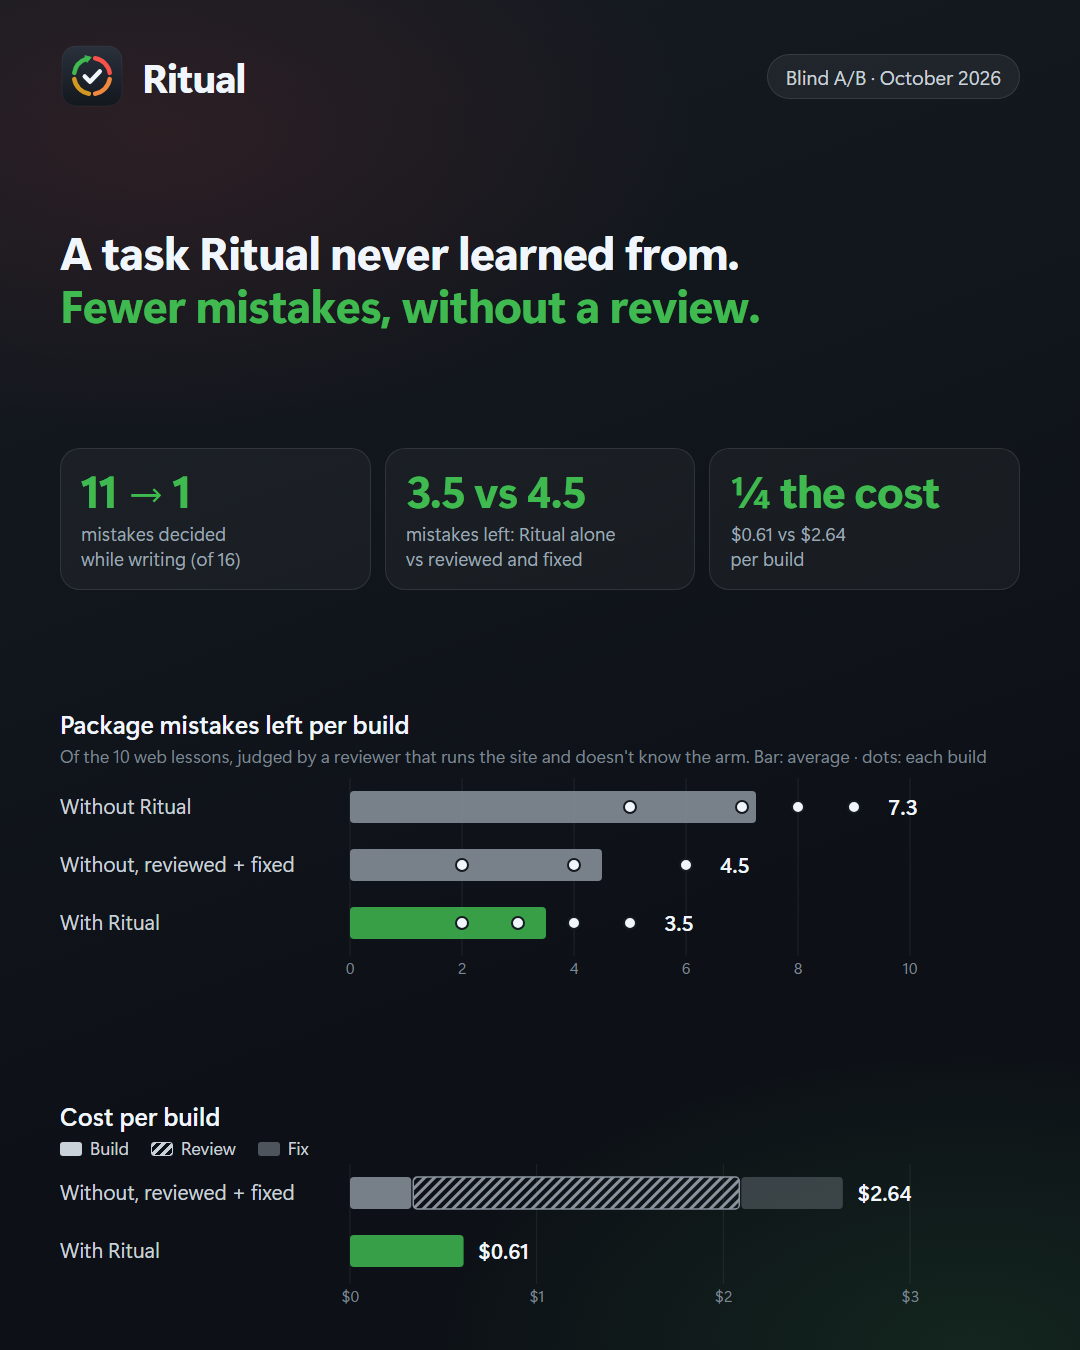
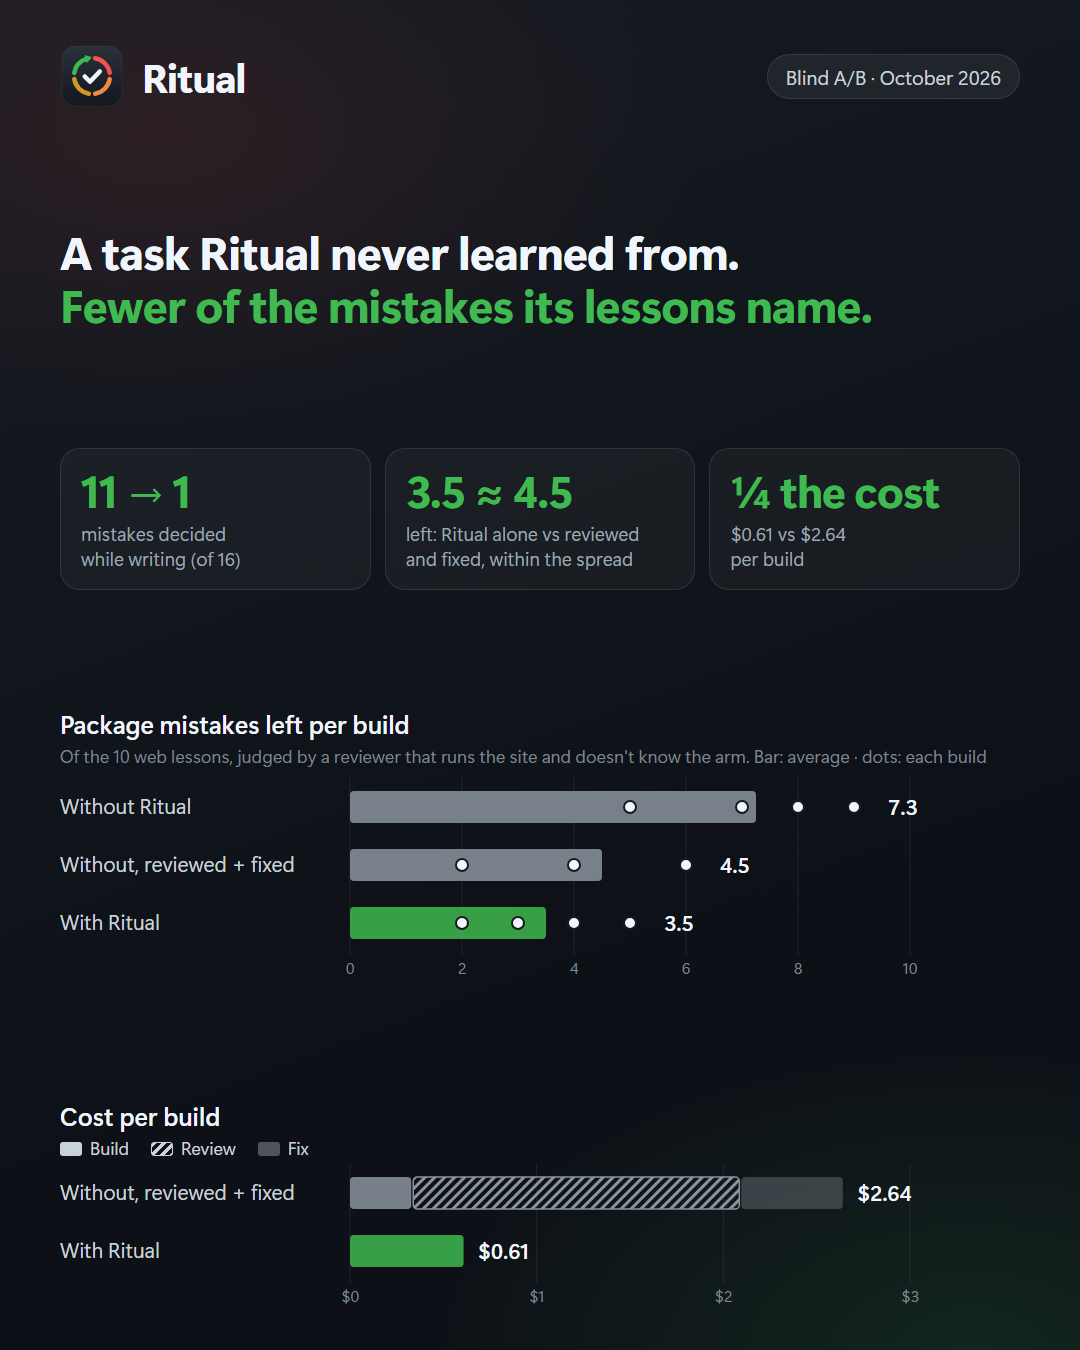
README and A/B chart: say what the measurement did not show
The measured paragraph now names both sides of the blind A/B, as RESULTS.md
does: the mistakes decided while writing went from 11 to 1 with lessons at the
start (5 with the close on too), while mistakes only seen by running, new
mistakes and the total did not drop by the pre-set rule; 3.5 against 4.5 is
within the spread; one task, four builds per arm, one model. The chart's
headline becomes "Fewer of the mistakes its lessons name" and shows 3.5 ≈ 4.5.
An outside review had read the old wording as overselling its own null result.

Changed region(s): [[0.1833, 0.2178, 0.7944, 0.2489], [0.3667, 0.3422, 0.5806, 0.4356]]

diff --git a/assets/social/ab-chart.html b/assets/social/ab-chart.html
@@ -23,10 +23,10 @@
 </style></head>
 <body><div class="page">
   <div class="head"><img src="../logo.svg" alt=""><b>Ritual</b><div class="pill">Blind A/B · October 2026</div></div>
-  <h1>A task Ritual never learned from.<br><span class="green">Fewer mistakes, without a review.</span></h1>
+  <h1>A task Ritual never learned from.<br><span class="green">Fewer of the mistakes its lessons name.</span></h1>
   <div class="stats">
     <div class="stat"><b class="green">11 → 1</b><span>mistakes decided<br>while writing (of 16)</span></div>
-    <div class="stat"><b class="green">3.5 vs 4.5</b><span>mistakes left: Ritual alone<br>vs reviewed and fixed</span></div>
+    <div class="stat"><b class="green">3.5 ≈ 4.5</b><span>left: Ritual alone vs reviewed<br>and fixed, within the spread</span></div>
     <div class="stat"><b class="green">¼ the cost</b><span>$0.61 vs $2.64<br>per build</span></div>
   </div>
   <div class="chart"><h2>Package mistakes left per build</h2><p>Of the 10 web lessons, judged by a reviewer that runs the site and doesn't know the arm. Bar: average · dots: each build</p><svg id="mistakes"></svg></div>

diff --git a/README.ja.md b/README.ja.md
@@ -20,7 +20,7 @@
 
 Ritual には、実際のミスからそれぞれ生まれた **55 件のフィールドレッスン**が含まれています。また、**プロジェクトの種類ごとのパッケージ**があり、そこのレッスンは、モデルが何かを作って壊すのを観察した結果から来ています。そして、**一つのコマンド** `/ritual` があります。これは、セッションのミスをあなた自身のレッスンに変え、そのレッスンを、自分で強制されるルールに変えます。
 
-**計測結果：** Ritual が一度も学んだことのない web 課題で、Ritual ありで四回、なしで四回ビルドし、どのビルドも盲検でレビューしました。書いている最中に決まるミス（エラー処理の経路、キーボードのフォーカス、壊れたデータファイル）は、Ritual なしでは 11 回、ありでは 1 回出ました。レビューを一切せずに Ritual ありでビルドしたものは、レビューと修正をした Ritual なしのビルドと比べて、パッケージのミスが同じかそれ以下でした（平均 3.5 対 4.5）。コストは約四分の一です：$0.61 対 $2.64（後者はビルド、レビュー、修正を合わせた額）。データと方法は [シミュレーション](simulations/clinic/RESULTS.md) にあります。
+**計測結果：** Ritual が一度も学んだことのない web 課題を、Ritual なしで四回、ありで四回ビルドし、どのビルドも盲検でレビューしました。書いている最中に決まるミス（エラー処理の経路、キーボードのフォーカス、壊れたデータファイル。この分類は実行前に決めたもの）は、Ritual なしでは 11 回、Ritual ありで最初からレッスンを読み込ませ、出荷時のまま使った場合は 1 回出ました（クローズも有効にすると 5 回）。実行して初めて見えるミスは減らず、新しいミスも、ミスの合計も減りませんでした。これは実行前に決めた基準によるものです。Ritual は、レッスンのあるミスを、コードを書いている最中に止めます。レビューを一切せずに Ritual ありでビルドしたものは、レビューと修正をした Ritual なしのビルドと比べて、パッケージのミスが同じかそれ以下でした（平均 3.5 対 4.5。ばらつきの範囲内）。コストは $0.61 対 $2.64 です。一つの課題、条件ごとに四ビルド、モデルは一つです。データと方法は [シミュレーション](simulations/clinic/RESULTS.md) にあります。
 
 <p align="center"><a href="simulations/clinic/RESULTS.md"><img src="assets/ab-chart.png" alt="Ritual ありでは、書いている最中に決まるミスが 11 から 1 に減り、レビューを一切しないビルドが、レビューと修正をした Ritual なしのビルドと同等になり、コストは四分の一" width="540"></a></p>
 

diff --git a/README.ko.md b/README.ko.md
@@ -20,7 +20,7 @@
 
 **55개의 현장 교훈**이 들어 있으며, 각 교훈은 실제 실수에서 태어났습니다. **프로젝트 종류별 패키지**도 있는데, 그 교훈들은 모델이 무언가를 만들고 망가뜨리는 것을 지켜보며 얻은 것입니다. 그리고 **명령 하나**, `/ritual`이 있어서 세션의 실수를 여러분 자신의 교훈으로, 그 교훈을 스스로 적용되는 규칙으로 바꿔 줍니다.
 
-**측정 결과:** Ritual이 한 번도 배운 적 없는 웹 과제에서, Ritual과 함께 네 번, Ritual 없이 네 번 빌드했고, 모든 빌드는 블라인드 방식으로 검토했습니다. 작성하는 동안 결정되는 실수(오류 처리 경로, 키보드 포커스, 손상된 데이터 파일)는 Ritual 없이 11번, Ritual과 함께는 1번 나타났습니다. 그리고 Ritual과 함께 검토 없이 빌드한 결과는, Ritual 없이 빌드하고 검토 및 수정한 결과와 비교해 패키지 실수가 더 많지 않았으며(평균 3.5 대 4.5), 비용은 약 4분의 1이었습니다: $0.61 대 $2.64(후자는 빌드, 검토, 수정을 합친 금액). 데이터와 방법은 [시뮬레이션](simulations/clinic/RESULTS.md)에 있습니다.
+**측정 결과:** Ritual이 한 번도 배운 적 없는 웹 과제를, Ritual 없이 네 번, Ritual과 함께 네 번 빌드했고, 모든 빌드는 블라인드 방식으로 검토했습니다. 작성하는 동안 결정되는 실수(오류 처리 경로, 키보드 포커스, 손상된 데이터 파일)는, 실행 전에 정해 둔 묶음으로서, Ritual 없이 11번, 배포된 그대로의 교훈을 처음부터 적용했을 때는 1번 나타났습니다(마무리 단계까지 켰을 때는 5번). 실행해야만 드러나는 실수는 줄지 않았고, 새로운 실수와 전체 합계도 줄지 않았습니다(실행 전에 정해 둔 규칙 기준). Ritual은 교훈이 있는 실수를 코드를 작성하는 동안 막습니다. Ritual과 함께 검토 없이 빌드한 결과는, Ritual 없이 빌드하고 검토 및 수정한 결과보다 패키지 실수가 더 많지 않았습니다(평균 3.5 대 4.5, 편차 범위 안에서). 비용은 $0.61 대 $2.64였습니다. 과제 하나, 조건당 빌드 네 번, 모델 하나입니다. 데이터와 방법은 [시뮬레이션](simulations/clinic/RESULTS.md)에 있습니다.
 
 <p align="center"><a href="simulations/clinic/RESULTS.md"><img src="assets/ab-chart.png" alt="Ritual을 쓰면 작성 중에 결정되는 실수가 11개에서 1개로 줄었고, 검토 없이 만든 빌드는 검토와 수정을 거친 Ritual 없는 빌드와 같은 수준이었으며 비용은 4분의 1이었습니다" width="540"></a></p>
 

diff --git a/README.fr.md b/README.fr.md
@@ -20,7 +20,7 @@ D'autres outils notent ce qui a été appris ; Ritual va plus loin et le vérifi
 
 Il livre **55 leçons de terrain**, chacune née d'une vraie erreur ; des **paquets par type de projet**, dont les leçons viennent de l'observation d'un modèle en train de construire quelque chose puis de le casser ; et **une seule commande**, `/ritual`, qui transforme les erreurs de votre session en vos propres leçons, et vos leçons en règles qui s'appliquent d'elles-mêmes.
 
-**Mesuré :** sur une tâche web dont Ritual n'a jamais rien appris, quatre constructions ont été faites avec Ritual et quatre sans, chacune relue à l'aveugle. Les erreurs qui se décident pendant l'écriture (le chemin d'erreur, le focus du clavier, un fichier de données endommagé) sont apparues 11 fois sans Ritual et une fois avec. Et une construction avec Ritual et sans aucune relecture s'est terminée avec pas plus d'erreurs du paquet qu'une construction sans Ritual après relecture et correction (3,5 contre 4,5 en moyenne), pour environ un quart du coût : $0.61 contre $2.64 pour construire, relire et corriger. Les données et la méthode se trouvent dans [simulations](simulations/clinic/RESULTS.md).
+**Mesuré :** sur une tâche web que Ritual n'a jamais apprise, quatre constructions faites sans Ritual et quatre avec, chacune relue à l'aveugle. Les erreurs qui se décident pendant l'écriture (le chemin d'erreur, le focus du clavier, un fichier de données endommagé), un groupe fixé avant les essais, sont apparues 11 fois sans Ritual et une fois avec ses leçons au départ, telles qu'elles sont livrées (5 fois avec la clôture activée aussi). Les erreurs qui ne se voient qu'en exécutant n'ont pas baissé, ni les nouvelles erreurs, ni le total, selon la règle fixée avant les essais : Ritual évite les erreurs pour lesquelles il a une leçon, pendant l'écriture du code. Une construction avec Ritual et sans relecture s'est terminée avec pas plus d'erreurs du paquet qu'une construction sans Ritual après relecture et correction (3,5 contre 4,5 en moyenne, dans la dispersion), pour $0.61 contre $2.64. Une tâche, quatre constructions par bras, un seul modèle : les données et la méthode sont dans [simulations](simulations/clinic/RESULTS.md).
 
 <p align="center"><a href="simulations/clinic/RESULTS.md"><img src="assets/ab-chart.png" alt="Avec Ritual, les erreurs décidées à l'écriture sont passées de 11 à 1, et une construction sans aucune relecture a égalé une construction sans Ritual relue et corrigée, pour un quart du coût" width="540"></a></p>
 

diff --git a/README.es.md b/README.es.md
@@ -20,7 +20,7 @@ Otras herramientas anotan lo aprendido; Ritual llega hasta comprobarlo, porque u
 
 Trae **55 lecciones de campo**, cada una nacida de un error real; **paquetes por tipo de proyecto**, cuyas lecciones salen de ver a un modelo construir algo y romperse; y **un comando**, `/ritual`, que convierte los errores de tu sesión en lecciones tuyas, y tus lecciones en reglas que se cumplen solas.
 
-**Medido:** en una tarea web de la que Ritual nunca aprendió, se hicieron cuatro construcciones con Ritual y cuatro sin Ritual, y cada una fue revisada a ciegas. Los errores que se deciden mientras se escribe (la ruta de error, el foco del teclado, un archivo de datos dañado) aparecieron 11 veces sin Ritual y una vez con él. Y una construcción con Ritual y sin ninguna revisión no terminó con más errores del paquete que una construcción sin Ritual después de revisión y arreglo (3.5 contra 4.5 en promedio), a una cuarta parte del costo: $0.61 contra $2.64 de construir, revisar y arreglar. Los datos y el método están en [simulaciones](simulations/clinic/RESULTS.md).
+**Medido:** una tarea web que Ritual nunca aprendió, construida cuatro veces sin Ritual y cuatro con Ritual, y cada construcción revisada a ciegas. Los errores que se deciden mientras se escribe (la ruta de error, el foco del teclado, un archivo de datos dañado), un grupo definido antes de las ejecuciones, aparecieron 11 veces sin Ritual y una vez con sus lecciones desde el principio, tal como se publica (5 veces con el cierre también activado). Los errores que solo se ven al ejecutar no bajaron, ni tampoco los errores nuevos ni el total, según la regla fijada antes de las ejecuciones: Ritual detiene los errores de los que tiene una lección, mientras se escribe el código. Una construcción con Ritual y sin ninguna revisión no terminó con más errores del paquete que una construcción sin Ritual después de revisión y arreglo (3.5 contra 4.5 en promedio, dentro de la dispersión), por $0.61 contra $2.64. Una tarea, cuatro construcciones por grupo, un modelo: los datos y el método están en [simulaciones](simulations/clinic/RESULTS.md).
 
 <p align="center"><a href="simulations/clinic/RESULTS.md"><img src="assets/ab-chart.png" alt="Con Ritual, los errores que se deciden al escribir bajaron de 11 a 1, y una construcción sin ninguna revisión igualó a una construcción sin Ritual que sí fue revisada y arreglada, a una cuarta parte del costo" width="540"></a></p>
 

diff --git a/README.pt.md b/README.pt.md
@@ -20,7 +20,7 @@ Outras ferramentas anotam o que foi aprendido; esta vai até o fim e confere, po
 
 Ele traz **55 lições de campo**, cada uma nascida de um erro real; **pacotes por tipo de projeto**, cujas lições vêm de observar um modelo construir algo e quebrá-lo; e **um comando**, `/ritual`, que transforma os erros da sua sessão em lições suas, e suas lições em regras que se aplicam sozinhas.
 
-**Medido:** em uma tarefa web com a qual o Ritual nunca aprendeu, foram feitas quatro construções com o Ritual e quatro sem ele, e cada uma foi revisada às cegas. Os erros decididos durante a escrita (o caminho de erro, o foco do teclado, um arquivo de dados danificado) apareceram 11 vezes sem o Ritual e uma vez com ele. E uma construção com o Ritual e sem nenhuma revisão terminou com não mais erros do pacote do que uma construção sem o Ritual depois de revisão e correção (3,5 contra 4,5 em média), a cerca de um quarto do custo: $0.61 contra $2.64 para construir, revisar e corrigir. Os dados e o método estão em [simulações](simulations/clinic/RESULTS.md).
+**Medido:** uma tarefa web que o Ritual nunca aprendeu, construída quatro vezes sem o Ritual e quatro com ele, com cada construção revisada às cegas. Os erros decididos durante a escrita (o caminho de erro, o foco do teclado, um arquivo de dados danificado), um grupo definido antes das execuções, apareceram 11 vezes sem o Ritual e uma vez com suas lições desde o início, como ele é distribuído (5 vezes com o fechamento também ativo). Os erros que só aparecem ao executar não diminuíram, nem os erros novos, nem o total, pela regra definida antes das execuções: o Ritual evita os erros para os quais tem uma lição, enquanto o código é escrito. Uma construção com o Ritual e sem nenhuma revisão terminou com não mais erros do pacote do que uma construção sem o Ritual depois de revisão e correção (3,5 contra 4,5 em média, dentro da variação), por $0.61 contra $2.64. Uma tarefa, quatro construções por grupo, um modelo: os dados e o método estão em [simulações](simulations/clinic/RESULTS.md).
 
 <p align="center"><a href="simulations/clinic/RESULTS.md"><img src="assets/ab-chart.png" alt="Com o Ritual, os erros decididos durante a escrita caíram de 11 para 1, e uma construção sem nenhuma revisão igualou uma construção sem o Ritual que foi revisada e corrigida, a um quarto do custo" width="540"></a></p>
 

diff --git a/README.zh-CN.md b/README.zh-CN.md
@@ -20,7 +20,7 @@ Ritual 是一个 Claude Code 插件，它把每个错误变成一条教训，把
 
 它附带 **55 条实战教训**，每条都源于一次真实的错误；还有 **按项目类型划分的课程包**，其中的教训来自观察模型构建某个东西并把它弄坏的过程；以及 **一条命令** `/ritual`，它把你会话中的错误变成你自己的教训，再把你的教训变成会自我执行的规则。
 
-**实测：**在一个 Ritual 从未从中学习过的网页任务上，有 Ritual 构建了四次，没有 Ritual 也构建了四次，每次构建都经过盲审。在编写过程中就决定的错误（错误处理路径、键盘焦点、损坏的数据文件），没有 Ritual 时出现了 11 次，有 Ritual 时只出现 1 次。而一次有 Ritual 且完全没有审查的构建，其课程包错误数并不比一次没有 Ritual、但经过审查和修复的构建更多（平均 3.5 对 4.5），成本约为四分之一：$0.61 对 $2.64（后者是构建、审查和修复的总成本）。数据和方法见 [模拟](simulations/clinic/RESULTS.md)。
+**实测：**在一个 Ritual 从未学习过的网页任务上，有 Ritual 构建了四次，没有 Ritual 也构建了四次，每次构建都经过盲审。在编写过程中就决定的错误（错误处理路径、键盘焦点、损坏的数据文件；这一类别在运行前就已定下），没有 Ritual 时出现了 11 次，而按发布时的原样、从一开始就带有课程时只出现了 1 次（同时开启收尾时为 5 次）。运行后才能看到的错误没有减少，新错误和错误总数也没有减少，这是按运行前设定的规则判定的：Ritual 会在编写代码时阻止它有教训对应的错误。一次有 Ritual 但没有任何审查的构建，其课程包错误数并不比一次没有 Ritual、但经过审查和修复的构建更多（平均 3.5 对 4.5，处于波动范围之内），成本为 $0.61 对 $2.64。一项任务，每组四次构建，一个模型：数据和方法见 [模拟](simulations/clinic/RESULTS.md)。
 
 <p align="center"><a href="simulations/clinic/RESULTS.md"><img src="assets/ab-chart.png" alt="使用 Ritual 后，在编写过程中决定的错误从 11 个降到 1 个，而一次没有任何审查的构建，其错误数与经过审查和修复的无 Ritual 构建相当，成本仅为四分之一" width="540"></a></p>
 

diff --git a/README.md b/README.md
@@ -18,7 +18,7 @@ Other tools write down what was learned; Ritual goes as far as checking it, beca
 
 It ships **55 field lessons**, each born from a real mistake; **packages per kind of project**, whose lessons come from watching a model build something and break it; and **one command**, `/ritual`, that turns the mistakes of your session into your own lessons, and your lessons into rules that enforce themselves.
 
-**Measured:** a web task Ritual never learned from, built four times with Ritual and four without, every build reviewed blind. The mistakes that get decided while writing (the error path, keyboard focus, a damaged data file) showed up 11 times without Ritual and once with it. And a build with Ritual and no review at all ended with no more of the package's mistakes than a build without Ritual after a review and a fix (3.5 against 4.5 on average), at about a quarter of the cost: $0.61 against $2.64 to build, review and fix. The data and the method are in [simulations](simulations/clinic/RESULTS.md).
+**Measured:** a web task Ritual never learned from, built four times without Ritual and four with it, every build reviewed blind. The mistakes that get decided while writing (the error path, keyboard focus, a damaged data file), a group set before the runs, showed up 11 times without Ritual and once with its lessons at the start, as it ships (5 times with the close on too). The mistakes only seen by running did not drop, nor did new mistakes or the total, by the rule set before the runs: Ritual stops the mistakes it has a lesson for, while the code is being written. A build with Ritual and no review ended with no more of the package's mistakes than a build without Ritual after a review and a fix (3.5 against 4.5 on average, within the spread), for $0.61 against $2.64. One task, four builds per arm, one model: the data and the method are in [simulations](simulations/clinic/RESULTS.md).
 
 <p align="center"><a href="simulations/clinic/RESULTS.md"><img src="assets/ab-chart.png" alt="With Ritual, the mistakes decided while writing went from 11 to 1, and a build without any review matched a build without Ritual that was reviewed and fixed, at a quarter of the cost" width="540"></a></p>
 
